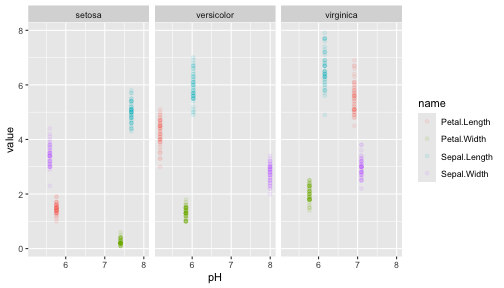
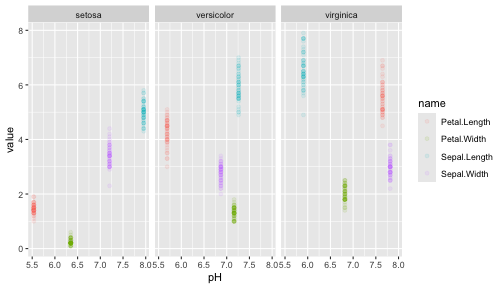
lect 9-14 2

diff --git a/lect/3140_f26_9-14.html b/lect/3140_f26_9-14.html
@@ -26,7 +26,7 @@ class: center, middle, inverse, title-slide
 ### Boston College
 ]
 .date[
-### 2025/9/8
+### 2026/9/14
 ]
 
 ---
@@ -181,16 +181,16 @@ iris_long %&gt;%
 ## # A tibble: 600 × 4
 ##    Species name         value    pH
 ##    &lt;fct&gt;   &lt;chr&gt;        &lt;dbl&gt; &lt;dbl&gt;
-##  1 setosa  Sepal.Length   5.1  7.68
-##  2 setosa  Sepal.Width    3.5  5.59
-##  3 setosa  Petal.Length   1.4  5.76
-##  4 setosa  Petal.Width    0.2  7.40
-##  5 setosa  Sepal.Length   4.9  7.68
-##  6 setosa  Sepal.Width    3    5.59
-##  7 setosa  Petal.Length   1.4  5.76
-##  8 setosa  Petal.Width    0.2  7.40
-##  9 setosa  Sepal.Length   4.7  7.68
-## 10 setosa  Sepal.Width    3.2  5.59
+##  1 setosa  Sepal.Length   5.1  7.95
+##  2 setosa  Sepal.Width    3.5  7.20
+##  3 setosa  Petal.Length   1.4  5.53
+##  4 setosa  Petal.Width    0.2  6.35
+##  5 setosa  Sepal.Length   4.9  7.95
+##  6 setosa  Sepal.Width    3    7.20
+##  7 setosa  Petal.Length   1.4  5.53
+##  8 setosa  Petal.Width    0.2  6.35
+##  9 setosa  Sepal.Length   4.7  7.95
+## 10 setosa  Sepal.Width    3.2  7.20
 ## # ℹ 590 more rows
 ```
 ---
